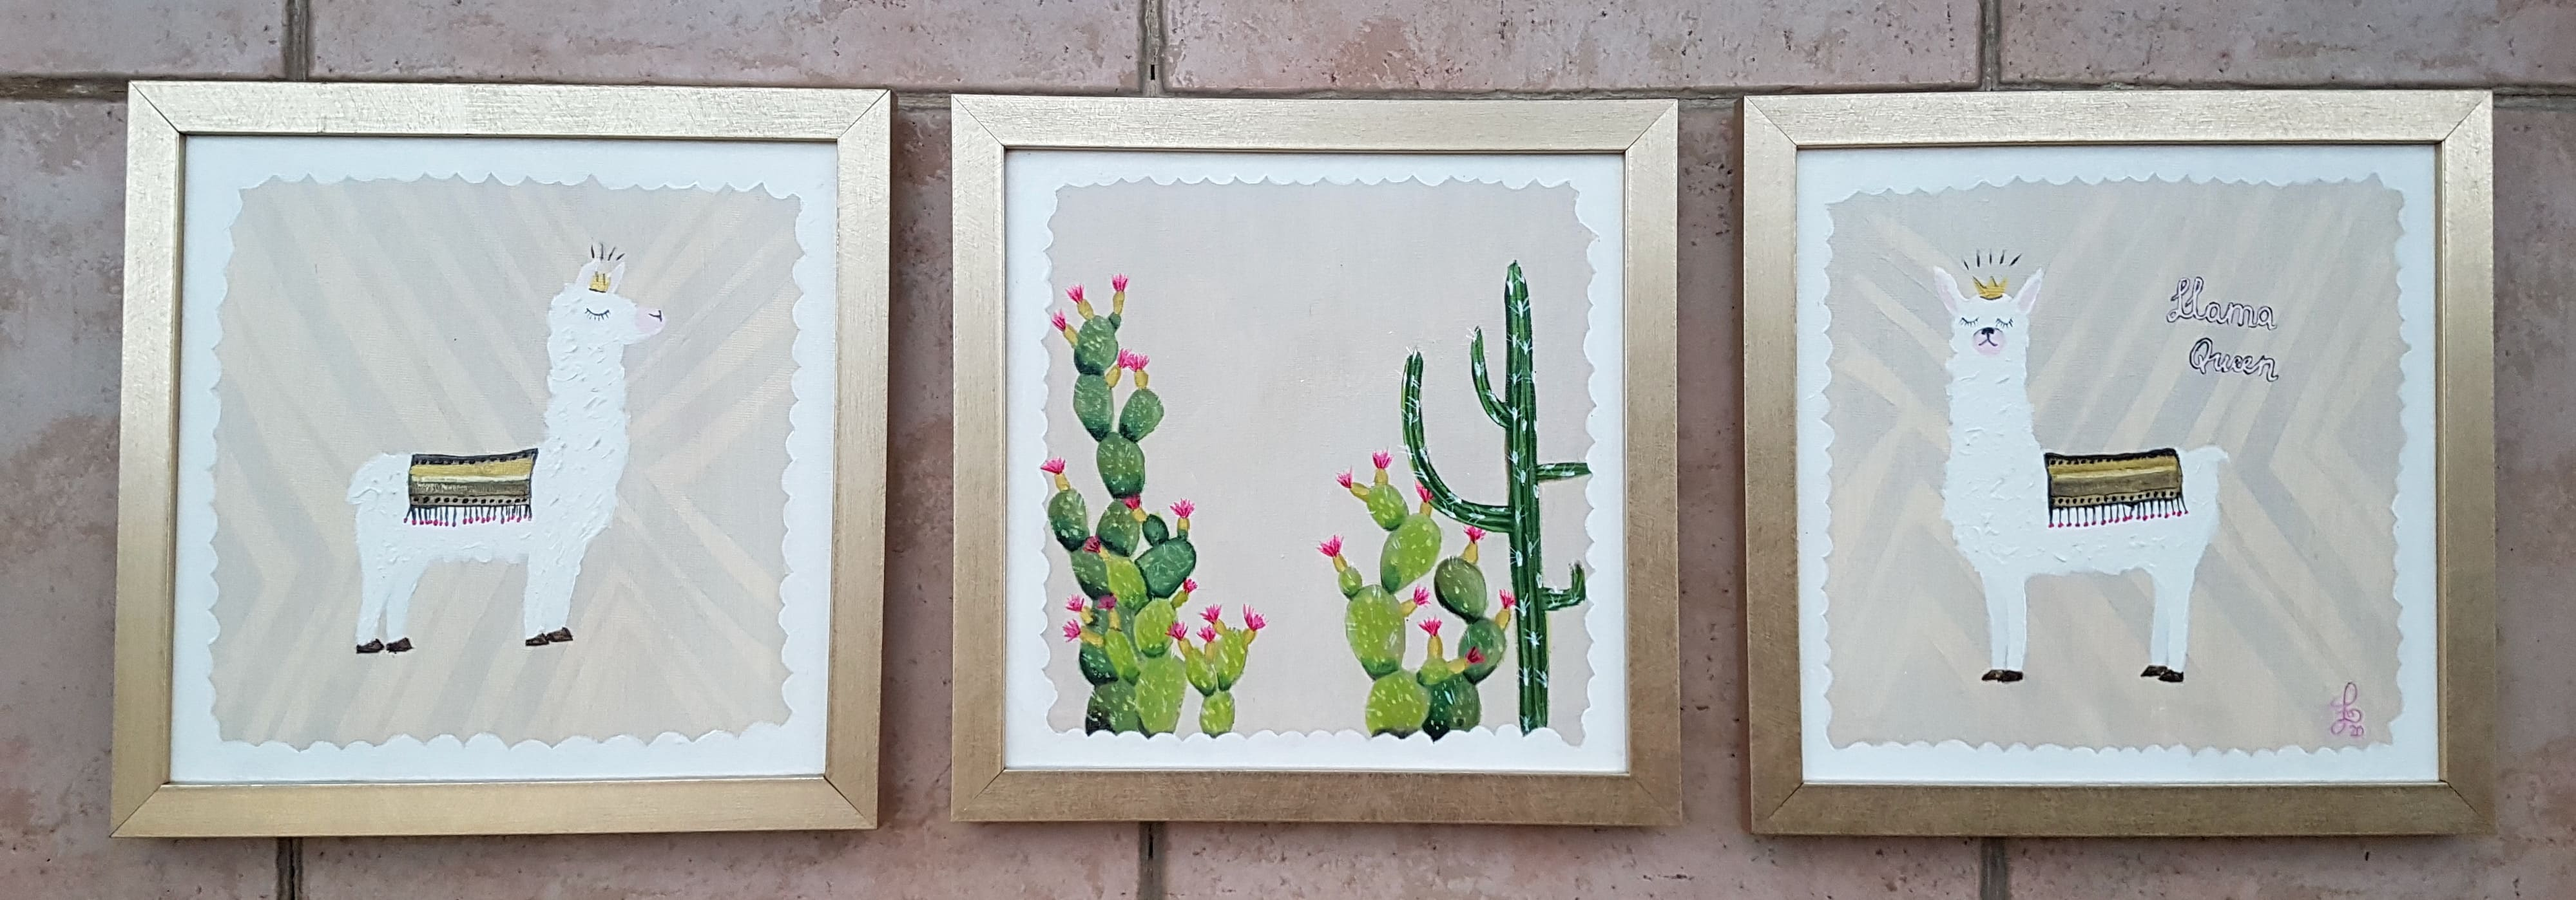
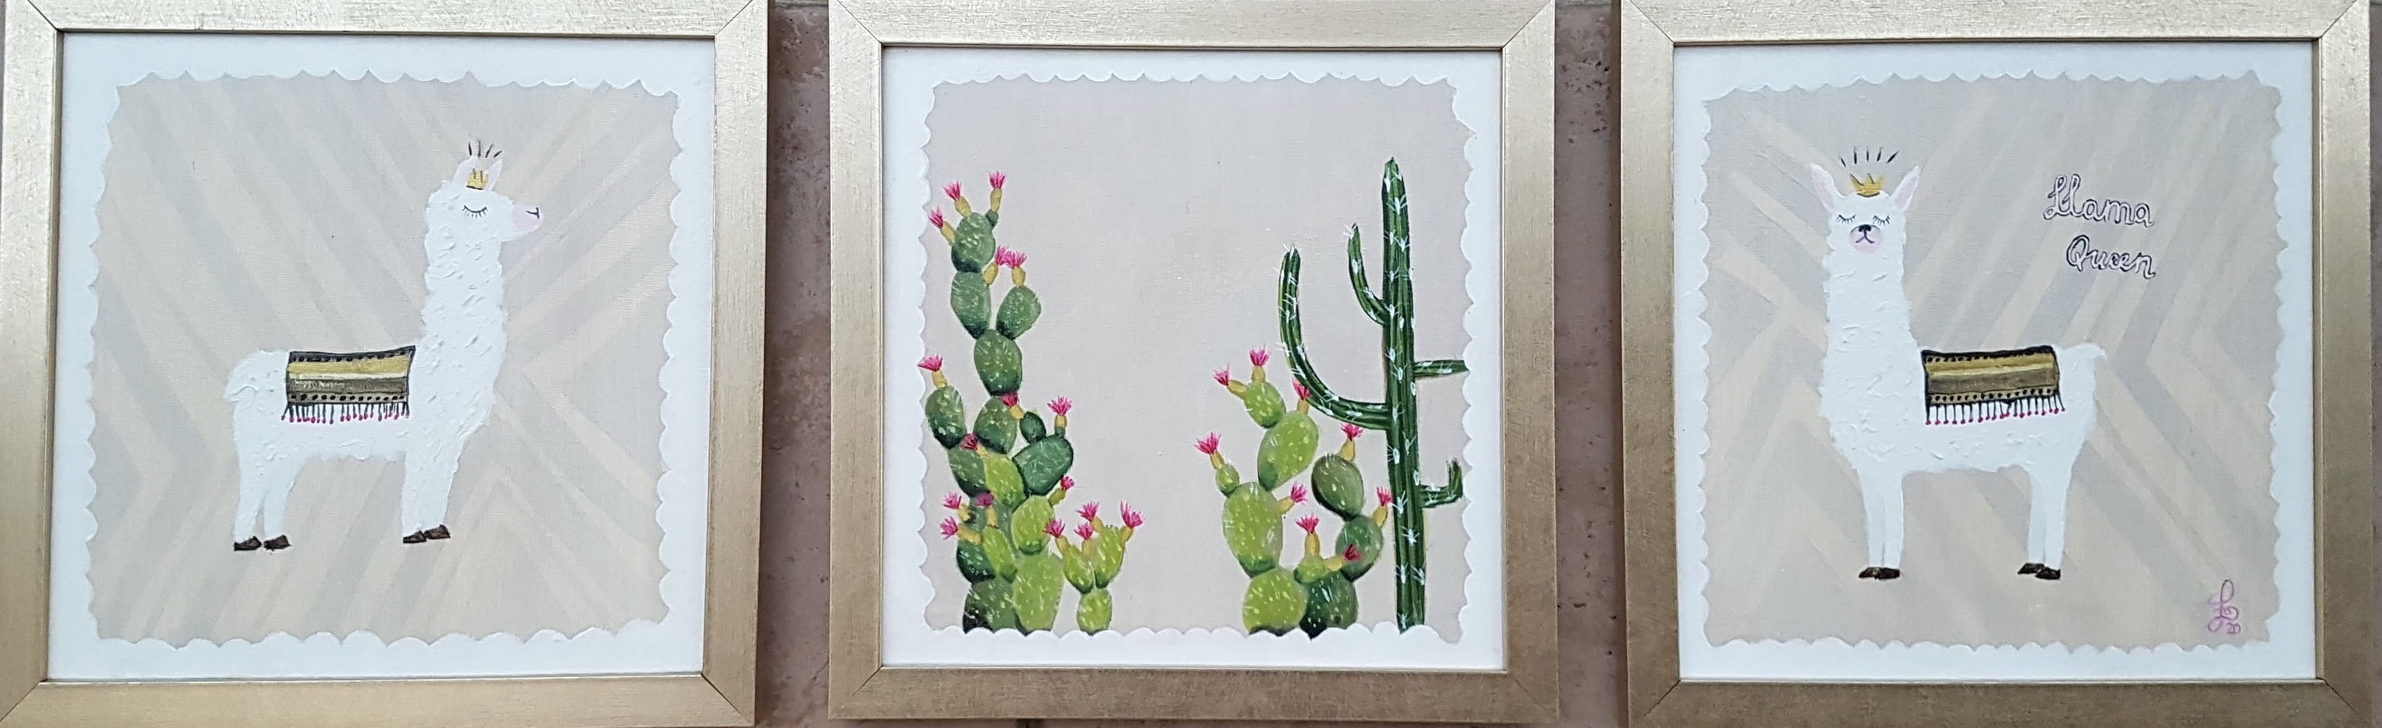
remove unnecessary pic and fix crop for sets picture

diff --git a/src/app/online-shop-home/page-items/flowers-page.consts.ts b/src/app/online-shop-home/page-items/flowers-page.consts.ts
@@ -12,7 +12,7 @@ export const flowersPaintings: StoreItemInterface[] = [
   },
   {
     description: 'Classic and romantic flowers with the most wonderful smell.\nNo wonder that they also can release stress and depression.',
-    imagesPath: createImagesPaths(['red-rose.jpeg'], `${directoryPrefix}/red-rose-set`),
+    imagesPath: createImagesPaths(['red-rose.jpeg'], `${directoryPrefix}`),
     name: 'Rose',
     year: 2019
   },
@@ -25,7 +25,7 @@ export const flowersPaintings: StoreItemInterface[] = [
   },
   {
     description: "When a leek flower came across me, I couldn't help but paint and reflect it's beauty. Leek contain a variety of nutrients, may reduce inflammation and promote heart health.",
-    imagesPath: createImagesPaths(['leek-flower.jpeg'], `${directoryPrefix}/leek-flower-set`),
+    imagesPath: createImagesPaths(['leek-flower.jpeg'], `${directoryPrefix}`),
     name: 'Leek Flower',
     year: 2021
   },
@@ -93,7 +93,7 @@ export const flowersPaintings: StoreItemInterface[] = [
   {
     description: 'Is used for insomnia, bladder and liver diseases.',
     framed: true,
-    imagesPath: createImagesPaths(['yellow-flowers.jpeg', 'preview.jpeg'], `${directoryPrefix}/poppy-set`),
+    imagesPath: createImagesPaths(['poppy.jpeg'], `${directoryPrefix}`),
     name: 'Poppy',
     year: 2018
   },

diff --git a/src/app/online-shop-home/page-items/nature-page.consts.ts b/src/app/online-shop-home/page-items/nature-page.consts.ts
@@ -8,7 +8,7 @@ export const naturePaintings: StoreItemInterface[] = [
     description:
       'The best vacation locations include exotic palm trees, waves and snorkeling, where my paintings will give a sense of the calm feeling of relaxing on the beach, reading a book while listening to the crashing of the waves in the background.',
     id: 1,
-    imagesPath: createImagesPaths(['tree.jpeg', 'wave.jpeg', 'fish.jpeg', 'preview.jpeg'], `${directoryPrefix}/beach-set`),
+    imagesPath: createImagesPaths(['tree.jpeg', 'wave.jpeg', 'fish.jpeg'], `${directoryPrefix}/beach-set`),
     name: 'Vacation',
     year: 2018
   },
@@ -35,7 +35,7 @@ export const naturePaintings: StoreItemInterface[] = [
   {
     description: 'A tall mighty soldier, who stands at the boarder of the sea, providing hope and security and guidance for the sailors who pass him day and night.',
     id: 1,
-    imagesPath: createImagesPaths(['light-tower.jpeg', 'light-tower-preview.jpeg'], `${directoryPrefix}/light-tower-set`),
+    imagesPath: createImagesPaths(['light-tower.jpeg'], `${directoryPrefix}/light-tower-set`),
     name: 'Lighthouse',
     year: 2018
   },
